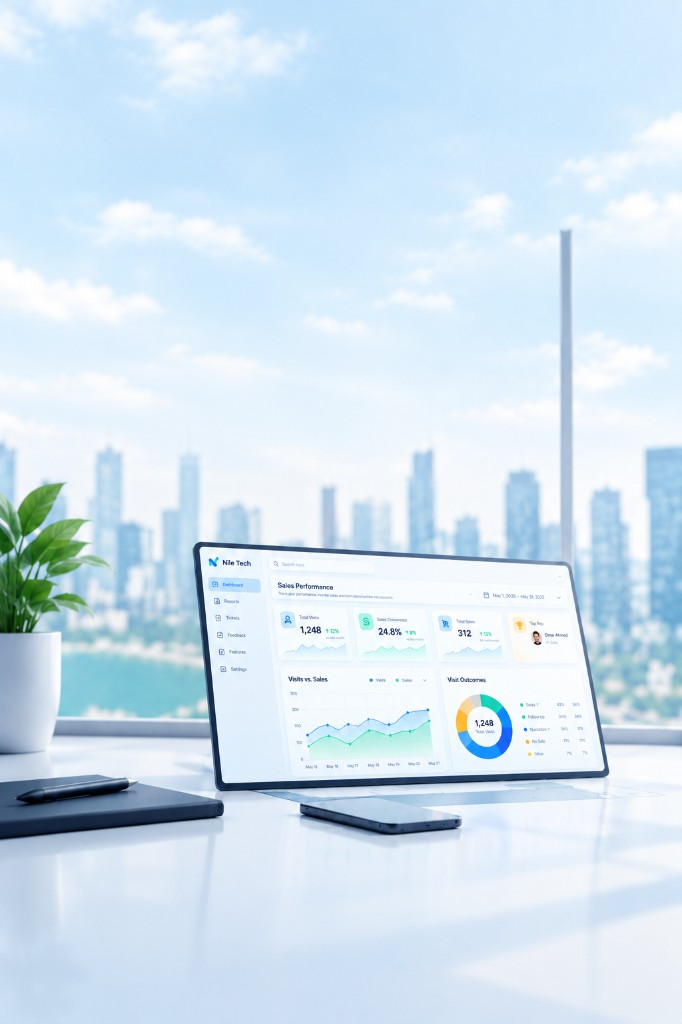
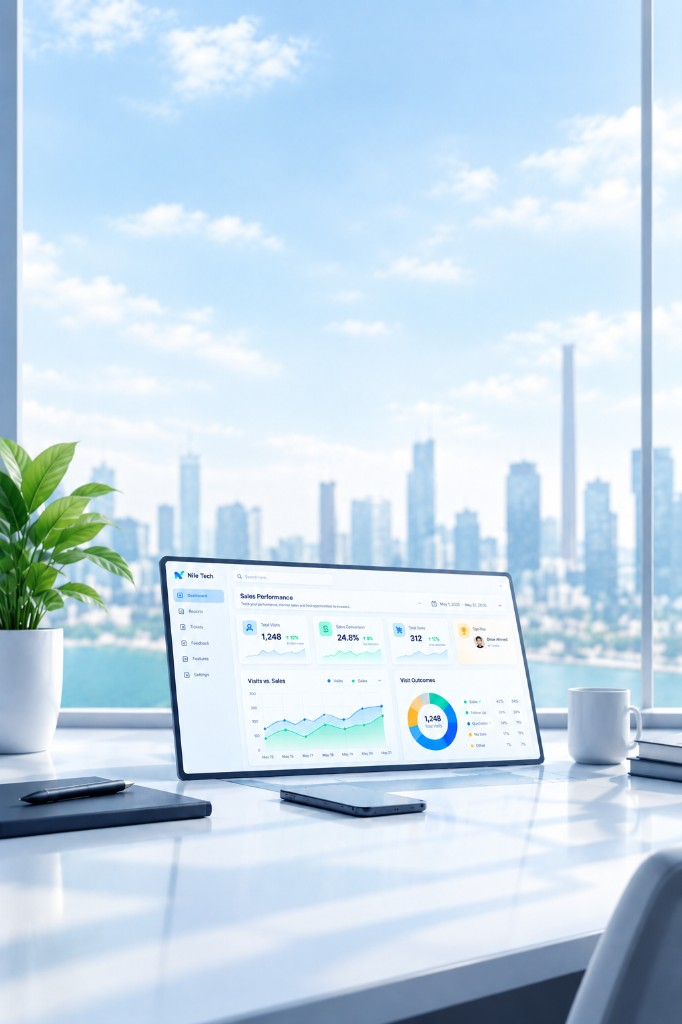
feat: update login hero image source to include versioning for cache busting

diff --git a/client/src/components/Settings.jsx b/client/src/components/Settings.jsx
@@ -78,7 +78,7 @@ export default function Settings() {
   return (
     <div className="login-page" dir="ltr">
       <section className="login-hero">
-        <img className="login-hero-photo" src="/login-hero.jpg" alt="" />
+        <img className="login-hero-photo" src="/login-hero.jpg?v=2" alt="" />
         <div className="login-hero-fade login-hero-fade-top" />
         <div className="login-hero-fade login-hero-fade-bottom" />
 
